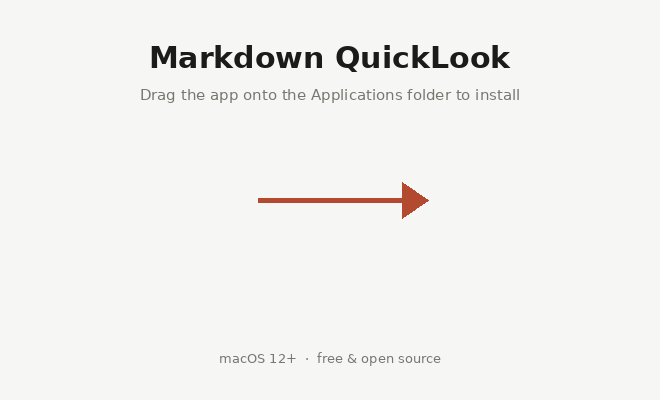
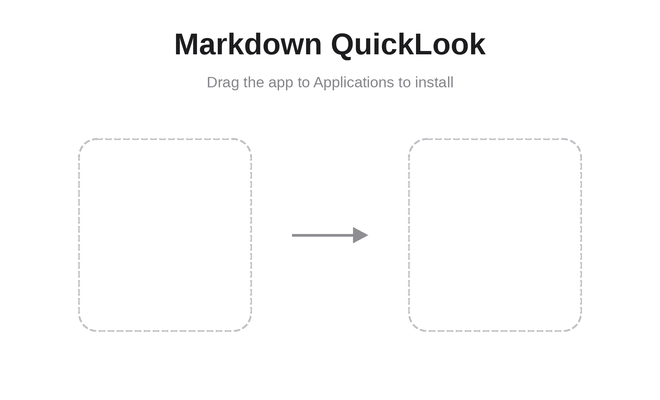
DMG: redesign installer background (dashed drop zones + centered arrow)
Replace the simple white background with a cleaner composition: bold title,
a single instruction line, two dashed rounded-rectangle drop zones centered
on the create-dmg icon positions (app 165,235 / Applications 495,235), and an
arrow centered in the gap between them.

Assets are generated deterministically by scripts/dmg-assets/generate-background.py
(PNG 1x/2x). Ignore generated .dmg / dmg-background.tiff artifacts.

diff --git a/scripts/dmg-assets/generate-background.py b/scripts/dmg-assets/generate-background.py
@@ -1,0 +1,200 @@
+#!/usr/bin/env python3
+"""Generate the Markdown QuickLook .dmg installer background art.
+
+The output is deterministic: running this script reproduces the committed
+``dmg-background.png`` (660x400) and ``dmg-background@2x.png`` (1320x800)
+that ``scripts/make-dmg.sh`` converts into a HiDPI TIFF.
+
+The composition is defined in 660x400 logical points and rendered (with
+supersampling for crisp edges) at both 1x and 2x:
+
+  - white background
+  - bold app title + a lighter instruction line at the top
+  - two dashed rounded-rectangle "drop zones" centered on the icon
+    positions used by create-dmg (app at x=165, Applications at x=495,
+    both at y=235), so the Finder icons land neatly inside them
+  - a single arrow centered vertically in the gap between the boxes
+
+The script never draws the icons themselves -- create-dmg/Finder overlay the
+real app icon and the Applications-folder alias on top of this background.
+
+Usage:
+  python3 scripts/dmg-assets/generate-background.py
+"""
+
+from __future__ import annotations
+
+import math
+import os
+
+from PIL import Image, ImageDraw, ImageFont
+
+HERE = os.path.dirname(os.path.abspath(__file__))
+
+# --- Canvas (logical points, matching create-dmg --window-size 660 400) ------
+W, H = 660, 400
+
+# Icon centers used by scripts/make-dmg.sh (create-dmg --icon / --app-drop-link).
+APP_CX, APP_CY = 165, 235
+APPS_CX, APPS_CY = 495, 235
+
+# --- Colors (Apple-ish neutrals) ---------------------------------------------
+BG = (255, 255, 255)
+TITLE_COLOR = (29, 29, 31)       # near-black (#1d1d1f)
+SUBTITLE_COLOR = (134, 134, 139)  # system gray (#86868b)
+BOX_COLOR = (193, 193, 198)       # light separator gray (#c1c1c6)
+ARROW_COLOR = (142, 142, 147)     # system gray (#8e8e93)
+
+# --- Text --------------------------------------------------------------------
+TITLE = "Markdown QuickLook"
+SUBTITLE = "Drag the app to Applications to install"
+
+TITLE_SIZE = 30
+SUBTITLE_SIZE = 15
+TITLE_Y = 44      # baseline-ish top anchor (center of text)
+SUBTITLE_Y = 82
+
+# --- Drop-zone boxes ---------------------------------------------------------
+BOX_W, BOX_H = 172, 192
+BOX_RADIUS = 18
+BOX_DASH = 5.0
+BOX_GAP = 4.0
+BOX_LINE = 1.4
+
+# --- Arrow -------------------------------------------------------------------
+ARROW_Y = 235
+ARROW_X0 = 292        # shaft start
+ARROW_TIP = 368       # arrowhead tip
+ARROW_HEAD_LEN = 15
+ARROW_HEAD_HALF = 8
+ARROW_SHAFT = 2.6
+
+SUPERSAMPLE = 3
+
+# Font candidates, preferring clean Helvetica-like faces. The first that loads
+# wins; the committed PNGs were rendered with Liberation Sans on Linux, which is
+# metric-compatible with Helvetica/Arial.
+BOLD_FONTS = [
+    "/System/Library/Fonts/Helvetica.ttc",
+    "/Library/Fonts/Arial Bold.ttf",
+    "/usr/share/fonts/truetype/liberation/LiberationSans-Bold.ttf",
+    "/usr/share/fonts/truetype/dejavu/DejaVuSans-Bold.ttf",
+]
+REGULAR_FONTS = [
+    "/System/Library/Fonts/Helvetica.ttc",
+    "/Library/Fonts/Arial.ttf",
+    "/usr/share/fonts/truetype/liberation/LiberationSans-Regular.ttf",
+    "/usr/share/fonts/truetype/dejavu/DejaVuSans.ttf",
+]
+
+
+def load_font(candidates, size):
+    for path in candidates:
+        if os.path.exists(path):
+            try:
+                return ImageFont.truetype(path, size)
+            except OSError:
+                continue
+    return ImageFont.load_default()
+
+
+def rounded_rect_perimeter(x0, y0, x1, y1, r, step):
+    """Return a closed polyline tracing a rounded rectangle's outline."""
+    pts = []
+
+    def arc(cx, cy, a0, a1):
+        length = abs(a1 - a0) * r
+        n = max(2, int(length / step))
+        for i in range(n + 1):
+            a = math.radians(a0 + (a1 - a0) * i / n)
+            pts.append((cx + r * math.cos(a), cy + r * math.sin(a)))
+
+    # top edge -> TR arc -> right edge -> BR arc -> bottom -> BL arc -> left -> TL arc
+    pts.append((x0 + r, y0))
+    pts.append((x1 - r, y0))
+    arc(x1 - r, y0 + r, -90, 0)
+    pts.append((x1, y1 - r))
+    arc(x1 - r, y1 - r, 0, 90)
+    pts.append((x0 + r, y1))
+    arc(x0 + r, y1 - r, 90, 180)
+    pts.append((x0, y0 + r))
+    arc(x0 + r, y0 + r, 180, 270)
+    pts.append((x0 + r, y0))
+    return pts
+
+
+def draw_dashed_path(draw, pts, dash, gap, width, fill):
+    """Walk a polyline drawing dash/gap segments with rounded caps."""
+    period = dash + gap
+    cap = width / 2.0
+    carry = 0.0  # distance traveled within the current period
+    for (x0, y0), (x1, y1) in zip(pts, pts[1:]):
+        seg = math.hypot(x1 - x0, y1 - y0)
+        if seg == 0:
+            continue
+        ux, uy = (x1 - x0) / seg, (y1 - y0) / seg
+        d = 0.0
+        while d < seg:
+            phase = carry % period
+            if phase < dash:
+                on_len = min(dash - phase, seg - d)
+                sx, sy = x0 + ux * d, y0 + uy * d
+                ex, ey = x0 + ux * (d + on_len), y0 + uy * (d + on_len)
+                draw.line([(sx, sy), (ex, ey)], fill=fill, width=int(round(width)))
+                for px, py in ((sx, sy), (ex, ey)):
+                    draw.ellipse([px - cap, py - cap, px + cap, py + cap], fill=fill)
+                step = on_len
+            else:
+                step = min(period - phase, seg - d)
+            d += step
+            carry += step
+
+
+def render(scale):
+    s = scale * SUPERSAMPLE
+
+    def S(v):
+        return v * s
+
+    img = Image.new("RGB", (int(W * s), int(H * s)), BG)
+    draw = ImageDraw.Draw(img)
+
+    title_font = load_font(BOLD_FONTS, int(round(TITLE_SIZE * s)))
+    subtitle_font = load_font(REGULAR_FONTS, int(round(SUBTITLE_SIZE * s)))
+
+    draw.text((S(W / 2), S(TITLE_Y)), TITLE, font=title_font,
+              fill=TITLE_COLOR, anchor="mm")
+    draw.text((S(W / 2), S(SUBTITLE_Y)), SUBTITLE, font=subtitle_font,
+              fill=SUBTITLE_COLOR, anchor="mm")
+
+    for cx, cy in ((APP_CX, APP_CY), (APPS_CX, APPS_CY)):
+        x0, y0 = cx - BOX_W / 2, cy - BOX_H / 2
+        x1, y1 = cx + BOX_W / 2, cy + BOX_H / 2
+        pts = rounded_rect_perimeter(
+            S(x0), S(y0), S(x1), S(y1), S(BOX_RADIUS), step=max(1.0, S(1.0)))
+        draw_dashed_path(draw, pts, S(BOX_DASH), S(BOX_GAP), S(BOX_LINE), BOX_COLOR)
+
+    # Arrow: shaft + filled triangular head, centered between the boxes.
+    shaft_end = ARROW_TIP - ARROW_HEAD_LEN
+    draw.line([(S(ARROW_X0), S(ARROW_Y)), (S(shaft_end), S(ARROW_Y))],
+              fill=ARROW_COLOR, width=int(round(S(ARROW_SHAFT))))
+    draw.polygon([
+        (S(ARROW_TIP), S(ARROW_Y)),
+        (S(shaft_end), S(ARROW_Y - ARROW_HEAD_HALF)),
+        (S(shaft_end), S(ARROW_Y + ARROW_HEAD_HALF)),
+    ], fill=ARROW_COLOR)
+
+    return img.resize((int(W * scale), int(H * scale)), Image.LANCZOS)
+
+
+def main():
+    out_1x = os.path.join(HERE, "dmg-background.png")
+    out_2x = os.path.join(HERE, "dmg-background@2x.png")
+    render(1).save(out_1x)
+    render(2).save(out_2x)
+    print(f"wrote {out_1x} (660x400)")
+    print(f"wrote {out_2x} (1320x800)")
+
+
+if __name__ == "__main__":
+    main()
